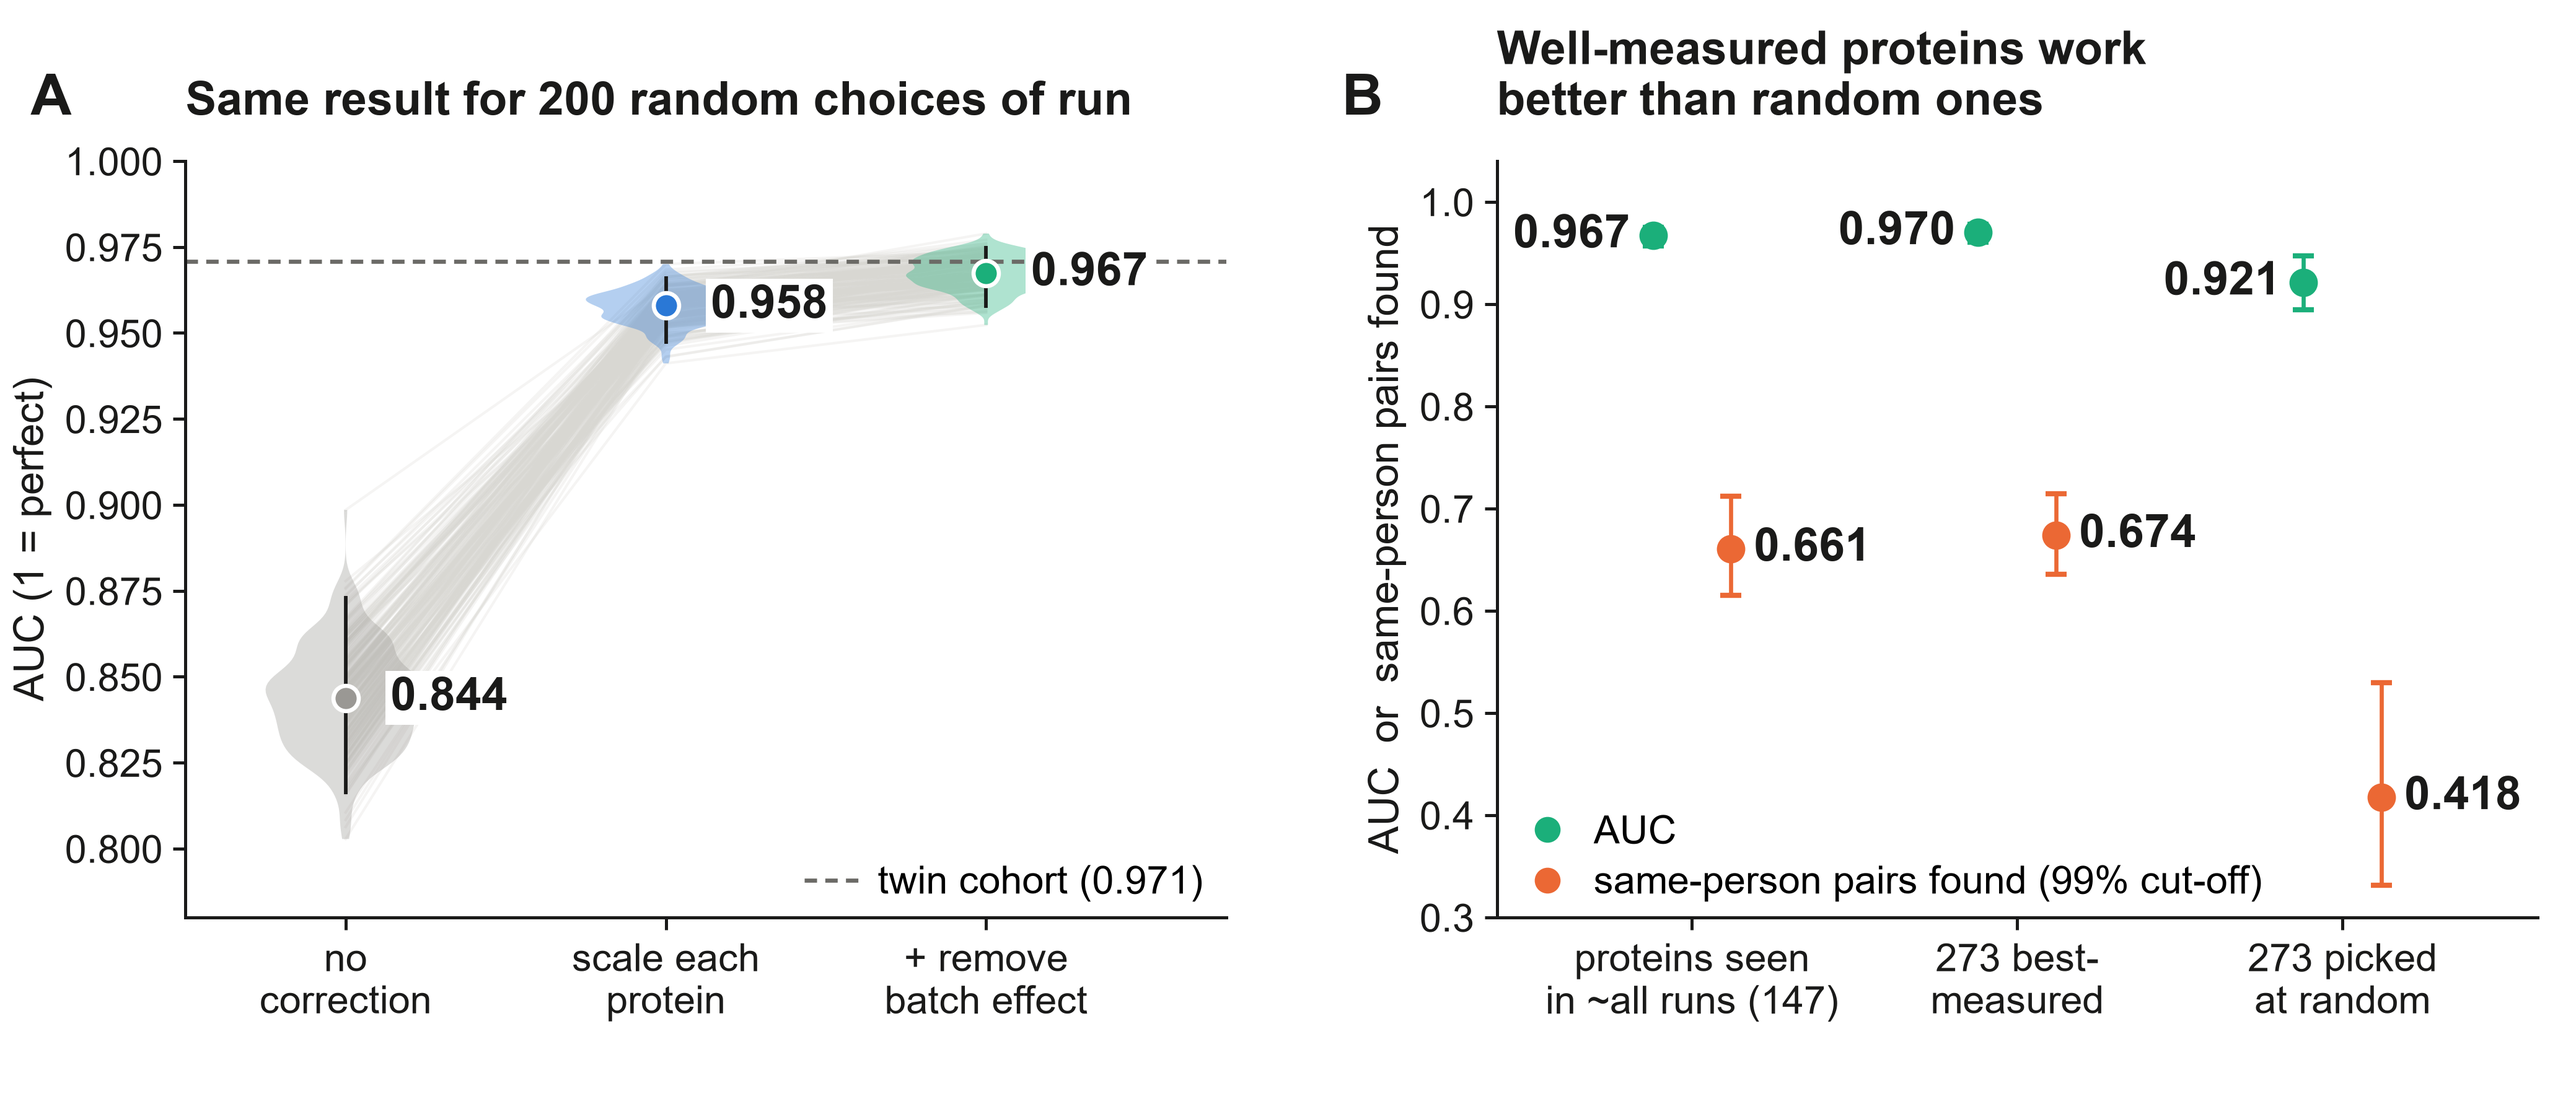
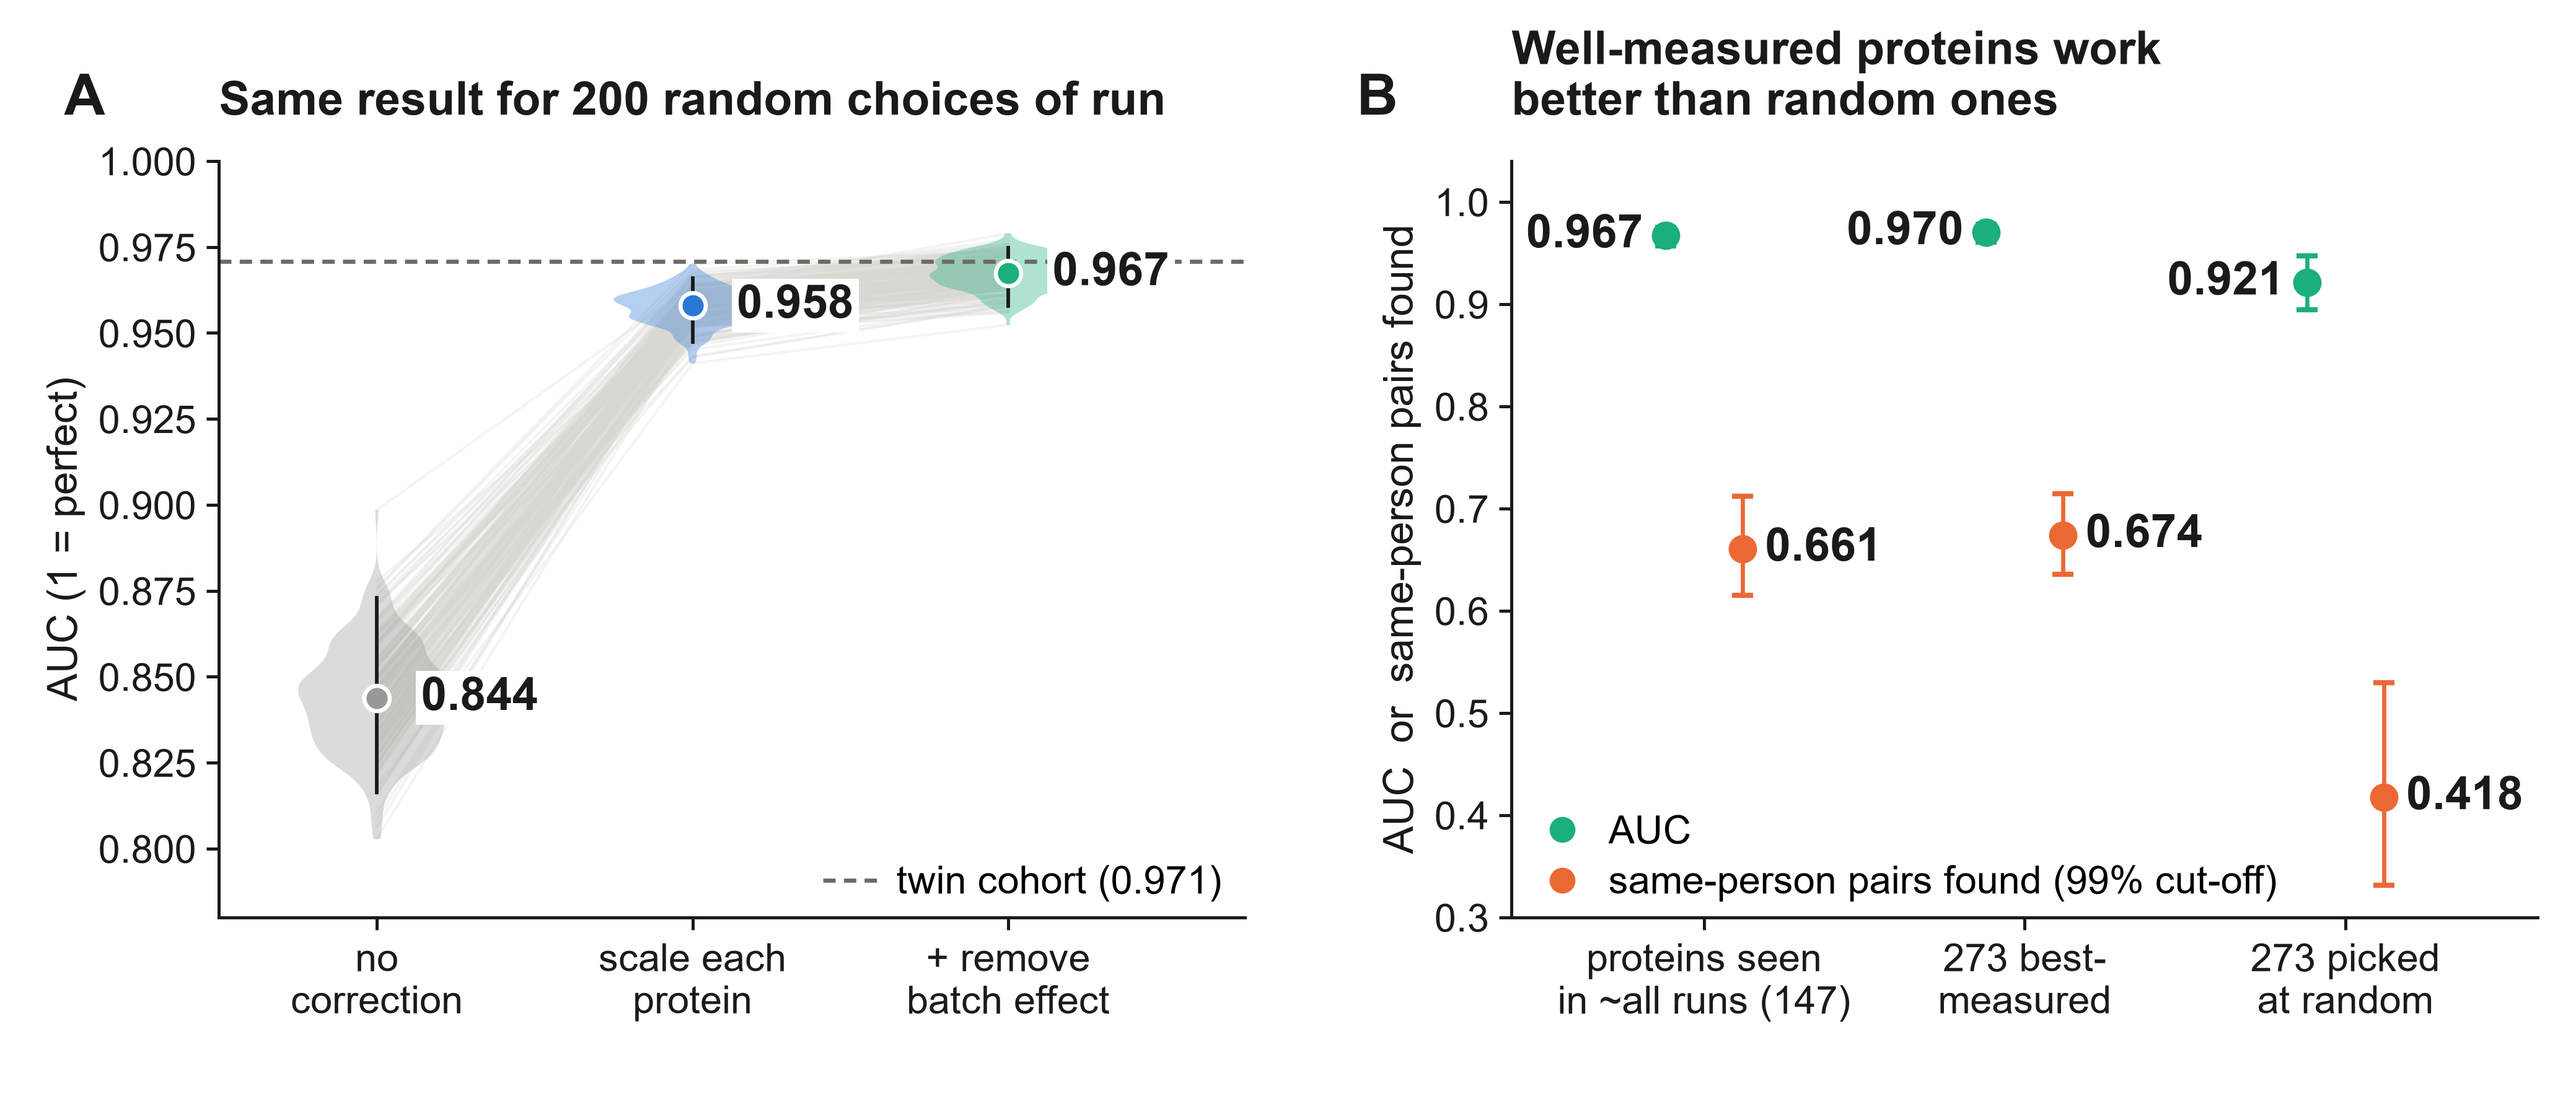
Keep every figure at least 1.5 mm from its edge
Figure S1's axis label ended 0.4 mm from the right edge and Figure 5's
y label 0.9 mm from the left, so both read as cut off. Both now have
proper margins, and save() measures the rendered margins and refuses a
figure whose content comes closer than 1.5 mm to any edge.

diff --git a/proteotrace_style.py b/proteotrace_style.py
@@ -38,6 +38,7 @@ import matplotlib.collections
 import matplotlib.lines
 import matplotlib.text
 import matplotlib.pyplot as plt
+import numpy as np
 from matplotlib import font_manager as fm
 from matplotlib.transforms import ScaledTranslation
 
@@ -48,6 +49,7 @@ WIDTH_2COL = 176 * MM         # JPR double column: 300-504 pt
 MAX_DEPTH_PT = 660            # JPR maximum depth, caption included
 MIN_FONT_PT = 4.5             # JPR minimum lettering
 MIN_LINE_PT = 0.5             # JPR minimum line weight
+MIN_MARGIN_MM = 1.5           # house rule: nothing closer to the edge than this
 
 # -------------------------------------------------------------------- colour
 BLUE = "#2a78d6"     # categorical slot 1
@@ -181,7 +183,8 @@ def check_journal(fig) -> None:
 
     Width must fit one column (<= 240 pt) or two (300-504 pt), depth must
     leave room for a caption under 660 pt, every visible text must be at least
-    4.5 pt and every visible stroked line at least 0.5 pt.
+    4.5 pt and every visible stroked line at least 0.5 pt, and nothing may sit
+    closer than 1.5 mm to the edge.
     """
     width_pt, height_pt = (v * 72 for v in fig.get_size_inches())
     if not (width_pt <= 240.5 or 300 <= width_pt <= 504):
@@ -201,6 +204,21 @@ def check_journal(fig) -> None:
             thin.append(coll)
     if thin:
         raise ValueError(f"{len(thin)} line(s) thinner than {MIN_LINE_PT} pt")
+
+    # Rendered margins: nothing may come closer to the edge than MIN_MARGIN_MM,
+    # or the figure reads as cut off and may be clipped in production.
+    dpi = 200
+    fig.set_dpi(dpi)
+    fig.canvas.draw()
+    rgba = np.asarray(fig.canvas.buffer_rgba())
+    ink = (rgba[..., :3].min(axis=2) < 200) & (rgba[..., 3] > 0)
+    cols, rows = np.where(ink.any(axis=0))[0], np.where(ink.any(axis=1))[0]
+    mm = 25.4 / dpi
+    margins = {"left": cols.min() * mm, "right": (ink.shape[1] - 1 - cols.max()) * mm,
+               "top": rows.min() * mm, "bottom": (ink.shape[0] - 1 - rows.max()) * mm}
+    tight = {k: round(v, 1) for k, v in margins.items() if v < MIN_MARGIN_MM}
+    if tight:
+        raise ValueError(f"content within {MIN_MARGIN_MM} mm of the edge (mm): {tight}")
 
 
 def save(fig, out_dir: Path, stem: str) -> tuple[Path, Path]:

diff --git a/plot_figS1_pxd062541.py b/plot_figS1_pxd062541.py
@@ -93,9 +93,9 @@ def draw_coverage(ax, summary):
     labels = [f"≥{float(k):.0%}\n{r['features']}" for k, r in zip(keys, rows)]
     labels[0] = labels[0].replace("\n", "*\n")          # * = tool default (caption)
     ax.set_xticks(x, labels)
-    ax.set_xlim(-0.6, len(keys) - 0.4)
+    ax.set_xlim(-0.85, len(keys) - 0.4)
     ax.set_ylim(0.0, 1.05)
-    ax.set_xlabel("minimum share of runs a protein must be seen in")
+    ax.set_xlabel("share of runs a protein must be seen in")
     ax.set_ylabel("AUC  or  same-person pairs found")
     ax.legend(handles=handles, loc="center right", bbox_to_anchor=(1.0, 0.70))
     S.head(ax, "C", "Using more proteins helps\nin this shallow cohort")
@@ -105,7 +105,7 @@ def make_figure(root: Path, out_dir: Path):
     pairs, labels, summary = load(root)
     fig = plt.figure(figsize=(S.WIDTH_2COL, 74 * S.MM))
     gs = fig.add_gridspec(1, 3, width_ratios=[1.0, 1.0, 1.35], wspace=0.30,
-                          left=0.075, right=0.975, top=0.83, bottom=0.21)
+                          left=0.075, right=0.965, top=0.83, bottom=0.21)
     draw_hist(fig.add_subplot(gs[0, 0]), labels, pairs["score_raw"].to_numpy(float),
               "A", "No correction", True)
     draw_hist(fig.add_subplot(gs[0, 1]), labels, pairs["score_default"].to_numpy(float),

diff --git a/plot_fig5_transfer.py b/plot_fig5_transfer.py
@@ -87,7 +87,7 @@ def make_figure(root: Path, out_dir: Path):
         "estimands"]["primary_unrelated_cross_batch"]["corrected"]["auc"]
     fig = plt.figure(figsize=(S.WIDTH_2COL, 76 * S.MM))
     gs = fig.add_gridspec(1, 2, width_ratios=[1.1, 1.1], wspace=0.26,
-                          left=0.072, right=0.985, top=0.855, bottom=0.175)
+                          left=0.085, right=0.985, top=0.855, bottom=0.175)
     draw_assignment(fig.add_subplot(gs[0, 0]), external["draws"], reference)
     draw_feature_depth(fig.add_subplot(gs[0, 1]), external["primary"]["summary"],
                        external["primary"]["adaptive_features"]["median"])
